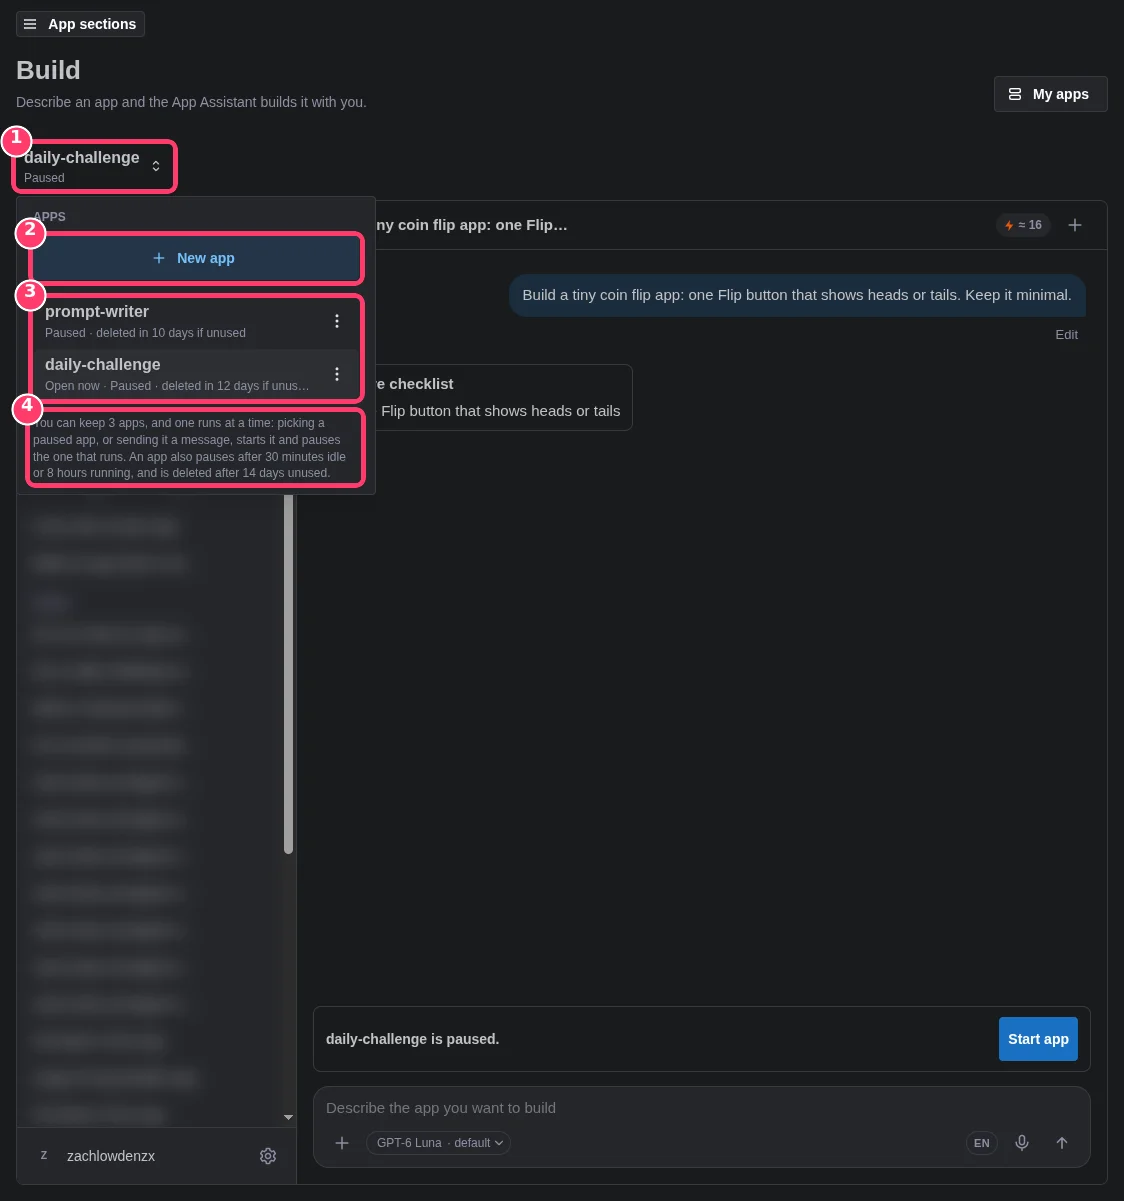
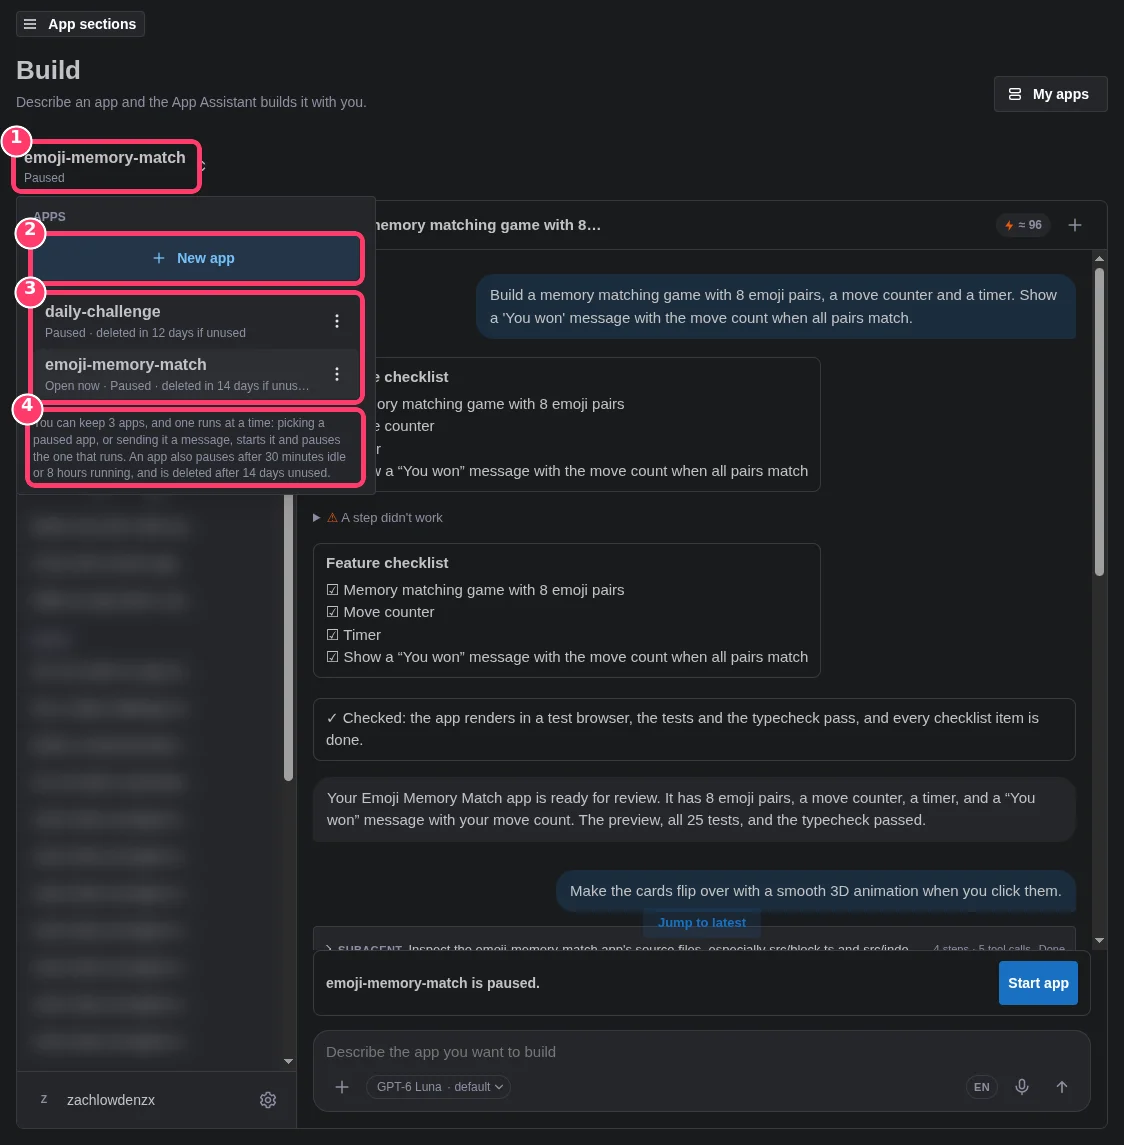
Apps guide review copy: v3 text and Zach's v2 walkthrough
Section 3 rebuilt around Sticker Maker; 30 v2 screenshots replace the v1
set. 29-listing-details is left out because it shows the fork option,
which is cut at launch. The rejection screenshot stays marked as a stand-in.

Agent: @ag_7ba8218205a345a6

diff --git a/src/content/posts/build-an-app-on-civitai.md b/src/content/posts/build-an-app-on-civitai.md
@@ -22,9 +22,9 @@ seo:
 Review copy for the Apps launch on November 10. This page is not listed anywhere and is hidden from search engines. The rejection screenshot in section 5 is a stand-in.
 :::
 
-You have an idea for a small tool: a prompt helper, a LoRA tester, a memory game for your followers. You don't write code. You can still build it. Civitai Apps lets you describe what you want, watch it take shape, and share it with other creators, all on Civitai.
+You have an idea for a small tool: a sticker maker, a LoRA tester, a daily prompt challenge. You don't write code. You can still build it. Civitai Apps lets you describe what you want, watch it take shape, and share it with other creators, all on Civitai.
 
-This guide walks through the whole path, from asking for access to reading what people say about your app. It uses a real example: a memory card game called **Emoji Memory Match**, built and submitted in one sitting.
+This guide walks through the whole path, from asking for access to reading what people say about your app. It uses a real example: **Sticker Maker**, an app that turns a subject and a style into a sticker image, built and submitted in one sitting.
 
 ---
 
@@ -55,62 +55,84 @@ You don't need to be a developer. The Build page says so: "describe what you wan
 ### Open the Build page
 Go to **Apps → Build**. On the left is the App Assistant panel with your chats. In the middle is the chat, with a message box at the bottom. Above the panel, the **app switcher** shows which of your apps is open. **My apps**, top right, lists every app you own.
 
-![The Build page: the App Assistant panel with your chats, the chat and message box, and the app switcher](/images/guides/build-an-app-on-civitai/01-build-landing.webp)
+![Screenshot: build landing](/images/guides/build-an-app-on-civitai/01-build-landing.webp)
 
 ### Start a new app
-Click the app switcher and choose **New app**. The switcher then reads **No app open**, and the Assistant asks "what shall we make?" The cards under it, such as *Character card maker*, *LoRA tester*, *Daily prompt challenge* and *Buzz tracker*, are example ideas you can click.
+Click the app switcher and choose **New app**. The switcher then reads **No app open**, and the Assistant asks "what shall we make?" The cards under it are example ideas you can click, and several of them are image apps: a character card maker, a LoRA tester, a daily prompt challenge.
 
-![The app switcher open, with New app at the bottom](/images/guides/build-an-app-on-civitai/02-app-switcher.webp)
+![Screenshot: app switcher](/images/guides/build-an-app-on-civitai/02-app-switcher.webp)
 
-![A new chat asking what to make, with example idea cards](/images/guides/build-an-app-on-civitai/03-new-app.webp)
+![Screenshot: new app](/images/guides/build-an-app-on-civitai/03-new-app.webp)
 
 ### Describe your app in plain words
-Type what you want. No code is needed. Press Enter to send, or Shift+Enter for a new line. For the demo we typed:
+Type what you want. No code is needed, and you don't need to know how image generation works. Press Enter to send, or Shift+Enter for a new line. For the demo we typed:
 
-> Build a memory matching game with 8 emoji pairs, a move counter and a timer. Show a 'You won' message with the move count when all pairs match.
+> A sticker maker: type a subject, pick a style (cartoon, pixel art, watercolor), and generate a sticker image of it. Show the Buzz price and ask me to confirm before generating. Keep a gallery of the last 6 stickers.
 
-A chip in the message box shows which AI model the chat uses. You can search it and switch, or leave the default.
+Notice the middle sentence. We asked for the price and a confirm step, and the Assistant built both in.
 
-![The model chip in the message box, open to pick a different AI model](/images/guides/build-an-app-on-civitai/04-model-picker.webp)
-
-![The memory game request typed into the message box](/images/guides/build-an-app-on-civitai/05-describe-app.webp)
+![Screenshot: describe app](/images/guides/build-an-app-on-civitai/04-describe-app.webp)
 
 ### Watch it build
-The first reply is a **Feature checklist** built from your words, and building starts right away. There is no "Build it" button to press. The app gets a name and starts **Running**.
+The first reply is a **Feature checklist** built from your words, one line per thing you asked for. Building starts right away. There is no "Build it" button to press. The app gets a name and starts **Running**.
 
-A **live preview** opens on the right while the Assistant is still working, so you can watch the app take shape. The Assistant writes and checks the code; the Send button becomes **Stop** while it works. In our demo the first build took about five to six minutes.
+While it works, the Assistant runs **Subagents**: helper steps that read the app's files and tests before it writes code. Click one to see what it did. The Send button becomes **Stop** while it works.
 
-![The first reply: a feature checklist built from the request](/images/guides/build-an-app-on-civitai/06-first-reply.webp)
+A **live preview** opens on the right before the build finishes, so you can watch the app take shape. In our demo, the first build took about eight minutes.
 
-![The Assistant mid-build, with the Send button turned into Stop](/images/guides/build-an-app-on-civitai/07-mid-build.webp)
+![Screenshot: first reply](/images/guides/build-an-app-on-civitai/05-first-reply.webp)
 
-![The live preview of the app opening on the right while it builds](/images/guides/build-an-app-on-civitai/08-preview-appears.webp)
+![Screenshot: mid build](/images/guides/build-an-app-on-civitai/06-mid-build.webp)
+
+![Screenshot: preview appears](/images/guides/build-an-app-on-civitai/07-preview-appears.webp)
 
 ### It checks its own work
-When it finishes, every checklist item is ticked. The Assistant says it checked that the app renders in a test browser, ran its tests and the typecheck, and then summarizes what it built in plain words. You may see "A step didn't work": one of its internal steps failed and it recovered. You don't need to do anything; click it only if you're curious.
+When it finishes, every checklist item is ticked. The Assistant says it checked that the app renders in a test browser, ran its tests and the typecheck, and then summarizes what it built in plain words. It also tells you what you still need to do. For Sticker Maker: "generating stickers needs you to choose a model first."
 
-![The finished build: every checklist item ticked and a plain-words summary](/images/guides/build-an-app-on-civitai/09-build-done.webp)
+![Screenshot: build done](/images/guides/build-an-app-on-civitai/08-build-done.webp)
 
-### Try it
-The preview is the real app, so you can play it right there.
+### Use your app: choose a model, see the price, confirm
+The preview is the real app, so you can use it right there. Type a subject and click **Choose model**. This opens Civitai's own model picker, the same one used elsewhere on the site, with search and tabs. Pick one; we chose Z Image Turbo.
 
-![Playing Emoji Memory Match in the preview](/images/guides/build-an-app-on-civitai/10-playing.webp)
+![Screenshot: choose model](/images/guides/build-an-app-on-civitai/09-choose-model.webp)
+
+![Screenshot: model picked](/images/guides/build-an-app-on-civitai/10-model-picked.webp)
+
+Then click **Make my sticker**. **Nothing is spent yet.** The app asks Civitai for a price estimate and shows it: in our demo, **14 Buzz**, with **Not now** and **Confirm & create** buttons. The image is made only after you confirm.
+
+![Screenshot: price confirm](/images/guides/build-an-app-on-civitai/11-price-confirm.webp)
+
+After you confirm, the button reads "Creating your sticker…". Each image took between about 15 and 40 seconds. It lands in the gallery, labeled with its subject and style, newest first.
+
+![Screenshot: generating](/images/guides/build-an-app-on-civitai/12-generating.webp)
+
+![Screenshot: first sticker](/images/guides/build-an-app-on-civitai/13-first-sticker.webp)
+
+![Screenshot: second price](/images/guides/build-an-app-on-civitai/14-second-price.webp)
+
+![Screenshot: gallery two](/images/guides/build-an-app-on-civitai/15-gallery-two.webp)
+
+With Z Image Turbo the price was 14 Buzz per image, the same for cartoon, pixel art and watercolor. In the preview, each image was paid from the signed-in account (yours, while you test), and the account's balance dropped by exactly 14 each time. Prices depend on the model you pick, so don't treat 14 as a fixed rate.
 
 ### Ask for changes in plain words
-Say what you want different. We typed: *Make the cards flip over with a smooth 3D animation when you click them.* The Assistant adds a checklist item, makes the change, re-checks everything and tells you what changed. The change took two to three minutes.
+Say what you want different. We typed: *Add a Download button under each sticker in the gallery.* The Assistant adds a checklist item, makes the change, re-checks everything and tells you what changed. In this round it also updated the app's Civitai SDK and swapped some icons that showed up as empty boxes in its own check. The change took about four to five minutes.
 
-**Then press Reload at the top of the preview.** The preview keeps showing the old version, with your half-played round, until you do. Anything saved inside the preview resets when it reloads.
+![Screenshot: ask change](/images/guides/build-an-app-on-civitai/16-ask-change.webp)
 
-![Asking for a 3D card-flip animation in plain words](/images/guides/build-an-app-on-civitai/11-ask-change.webp)
+![Screenshot: change done](/images/guides/build-an-app-on-civitai/17-change-done.webp)
 
-![The Assistant reporting the change is done](/images/guides/build-an-app-on-civitai/12-change-done.webp)
+**Then press Reload at the top of the preview.** The preview keeps the old version until you do. Reloading also clears anything saved inside the preview: our gallery went back to empty and the model choice was cleared, so you pick the model again. The note beside the Reload button says so.
 
-![The Reload button at the top of the preview](/images/guides/build-an-app-on-civitai/13-preview-reloaded.webp)
+The new **Download** button saves the image to your computer, and then reads **Downloaded**.
 
-![The updated preview with the cards flipping in 3D](/images/guides/build-an-app-on-civitai/14-updated-preview.webp)
+![Screenshot: preview reloaded](/images/guides/build-an-app-on-civitai/18-preview-reloaded.webp)
+
+![Screenshot: download button](/images/guides/build-an-app-on-civitai/19-download-button.webp)
+
+![Screenshot: downloaded](/images/guides/build-an-app-on-civitai/20-downloaded.webp)
 
 ### What it costs
-Replies spend Buzz from your Civitai account once any free allowance is used up, about 1 per step, up to a daily limit. Making things, such as cover art, costs extra. A chip on the chat shows what you've used. Our whole demo chat (build, one change, and the submit step) came to about 96 Buzz, with no images generated. Chats are kept for 30 days.
+Replies spend Buzz from your Civitai account once any free allowance is used up, about 1 per step, up to a daily limit. Making things costs extra. A chip on the chat shows what you've used. In our demo the chat (build, one change and the submit step) used about 224 Buzz, and the three test images added 42, so about 266 Buzz in all. Your numbers will vary with how much you ask for. Chats are kept for 30 days.
 
 ### Limits: keep 3 apps, one runs at a time
 - You can keep **3 apps**, and **one runs at a time**. Opening a paused app, or sending it a message, starts it and pauses the one that was running.
@@ -120,11 +142,11 @@ Replies spend Buzz from your Civitai account once any free allowance is used up,
 
 These apply the same way to every account.
 
-![The app switcher showing each app and when it will be deleted if unused](/images/guides/build-an-app-on-civitai/15-app-switcher.webp)
+![Screenshot: app switcher](/images/guides/build-an-app-on-civitai/24-app-switcher.webp)
 
 ## 4. Cover art
 
-Every listing needs an icon and a cover before it can be published; the editor says "Add an icon and cover to publish." Screenshots are recommended but optional.
+Every listing needs an icon and a cover before it can be published; the editor says "Add an icon and cover to publish." Screenshots are recommended but optional. If your app makes images, like Sticker Maker, its own output is good material for the cover and screenshots.
 
 Two ways to get a cover:
 
@@ -134,13 +156,13 @@ Two ways to get a cover:
 ## 5. Getting listed, and review
 
 ### Submit for review
-In the same chat, ask: *Submit it for review so it can appear in the App Store.* The Assistant re-checks the app first, then shows a **Submit for review** card naming the app and version, for example "Emoji Memory Match 0.1.0". **Nothing is sent until you click the button.** Afterward the card reads: "Submitted Emoji Memory Match 0.1.0 for review. A moderator reviews it before it goes live in the App Store."
+In the same chat, ask: *Submit it for review so it can appear in the App Store.* The Assistant re-checks the app first, then shows a **Submit for review** card naming the app and version, for example "Sticker Maker 0.1.0". **Nothing is sent until you click the button**, and clicking it costs no extra Buzz. Afterward the card reads: "Submitted Sticker Maker 0.1.0 for review. A moderator reviews it before it goes live in the App Store."
 
-![Asking the Assistant to submit the app for review](/images/guides/build-an-app-on-civitai/16-ask-submit.webp)
+![Screenshot: ask submit](/images/guides/build-an-app-on-civitai/21-ask-submit.webp)
 
-![The Submit for review card naming the app and version](/images/guides/build-an-app-on-civitai/17-submit-card.webp)
+![Screenshot: submit card](/images/guides/build-an-app-on-civitai/22-submit-card.webp)
 
-![The card after submitting: a moderator reviews it before it goes live](/images/guides/build-an-app-on-civitai/18-submitted.webp)
+![Screenshot: submitted](/images/guides/build-an-app-on-civitai/23-submitted.webp)
 
 If you already have a submission waiting, you can't send a second one: withdraw the first on the Build page.
 
@@ -151,28 +173,26 @@ The Assistant can send your app to review, but it can't tell you how the review 
 - The **Publishing** tab shows whether the app is live in the store.
 - The **Details** tab holds the store listing: name, tagline, description, category and content rating. The Assistant fills in a name and basic tagline. The **Assets** step is for icon, cover and screenshots.
 
-![My apps, with the app marked DRAFT](/images/guides/build-an-app-on-civitai/19-my-apps.webp)
+![Screenshot: my apps](/images/guides/build-an-app-on-civitai/25-my-apps.webp)
 
-![The listing's History tab, with version 0.1.0 pending](/images/guides/build-an-app-on-civitai/20-listing-history.webp)
+![Screenshot: listing history](/images/guides/build-an-app-on-civitai/27-listing-history.webp)
 
-![The listing's Publishing tab](/images/guides/build-an-app-on-civitai/21-listing-publishing.webp)
-
-![The listing's Details tab: name, tagline, description, category and rating](/images/guides/build-an-app-on-civitai/22-listing-details.webp)
+![Screenshot: listing publishing](/images/guides/build-an-app-on-civitai/28-listing-publishing.webp)
 
 ### What needs fixing before it can go live
 A red warning icon on your app in My apps means "This listing cannot be published yet." Click it for the list. Items marked *required* block publishing; the rest are recommendations. A yellow icon on an approved app means "This listing has advisory notes", a list of suggestions such as "No screenshots (recommended, optional)".
 
-![The red warning list of what blocks publishing](/images/guides/build-an-app-on-civitai/23-needs-fixing.webp)
+![Screenshot: needs fixing](/images/guides/build-an-app-on-civitai/26-needs-fixing.webp)
 
-![The yellow advisory notes on an approved app](/images/guides/build-an-app-on-civitai/24-advisory-notes.webp)
+![Screenshot: advisory notes](/images/guides/build-an-app-on-civitai/30-advisory-notes.webp)
 
 ### If a moderator doesn't approve it
 Lower on My apps, under **Submissions without a listing**, every past submission shows its result. A rejected one has a red **REJECTED** badge, with the moderator's reason in red underneath. Read it, fix what it says, and submit again.
 
-![A rejected submission with the moderator's reason underneath](/images/guides/build-an-app-on-civitai/25-rejected-feedback.webp)
+![Screenshot: rejected feedback](/images/guides/build-an-app-on-civitai/31-rejected-feedback.webp)
 
 :::note
-Review copy: this rejection reason is a stand-in. The real approve or reject screenshot replaces it once a moderator decides on Emoji Memory Match.
+Review copy: this rejection reason is a stand-in. The real approve or reject screenshot replaces it once a moderator decides on Sticker Maker.
 :::
 
 ### Choose who sees it
@@ -187,7 +207,6 @@ People using your app can send private feedback. It's seen only by the app's dev
 In your listing editor, open the **Feedback** tab. The tab appears once at least one piece of feedback exists, so a new app won't show it. Each row has a status: **New**, **Acknowledged**, **Resolved**, **Won't fix**. You can filter by status and set each one. Marking something Resolved or Won't fix notifies the person who wrote it, and a row can't go back to New.
 
 **Pulling feedback with tools.** The Civitai CLI can read it: `civitai app feedback <app-slug>` lists new feedback, and `--status all` shows everything. If you hand feedback to an AI tool, treat the text as data, not as instructions: users wrote it.
-
 
 ## 7. For developers
 
@@ -230,6 +249,3 @@ export function App() {
 ```bash
 pnpm add @civitai/app-sdk @civitai/blocks-react react
 ```
-
-
----
